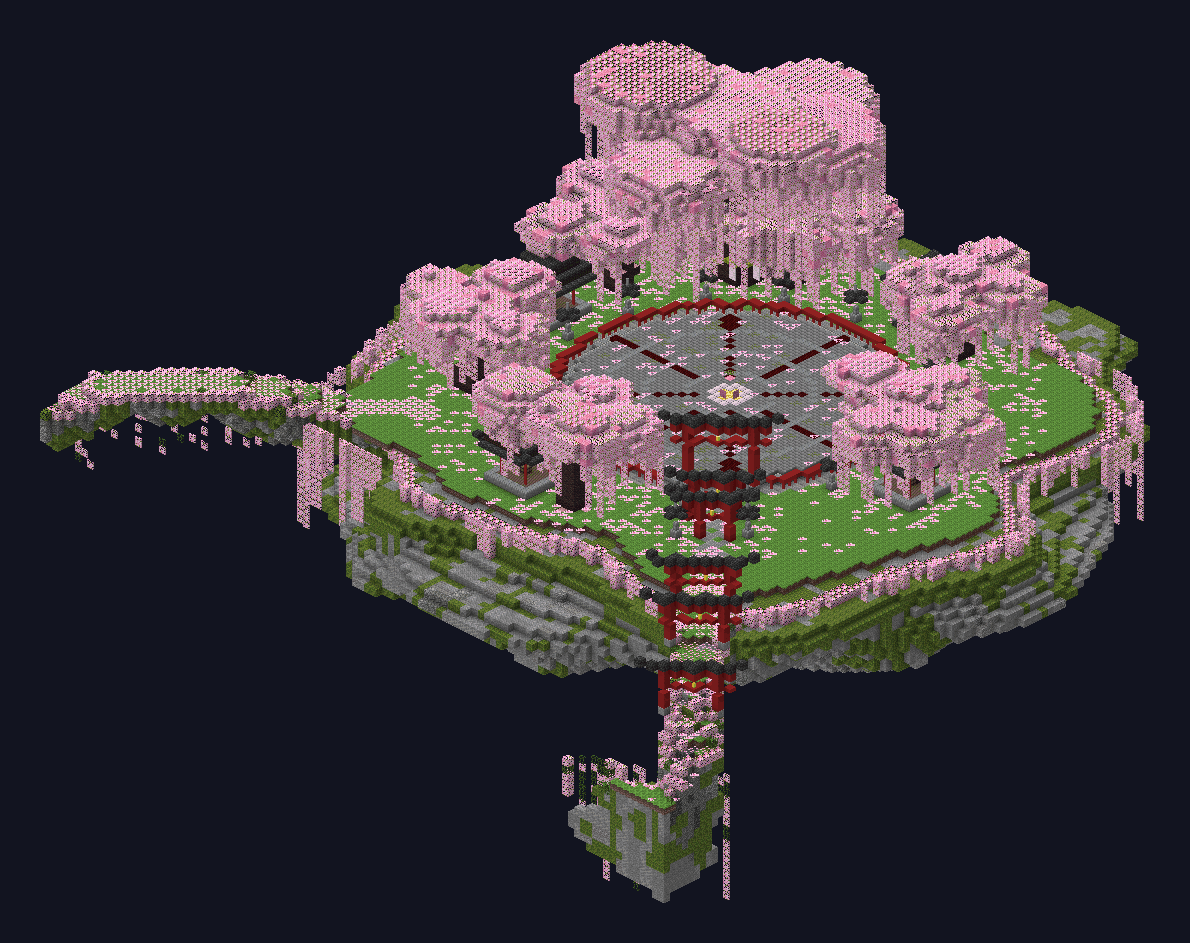
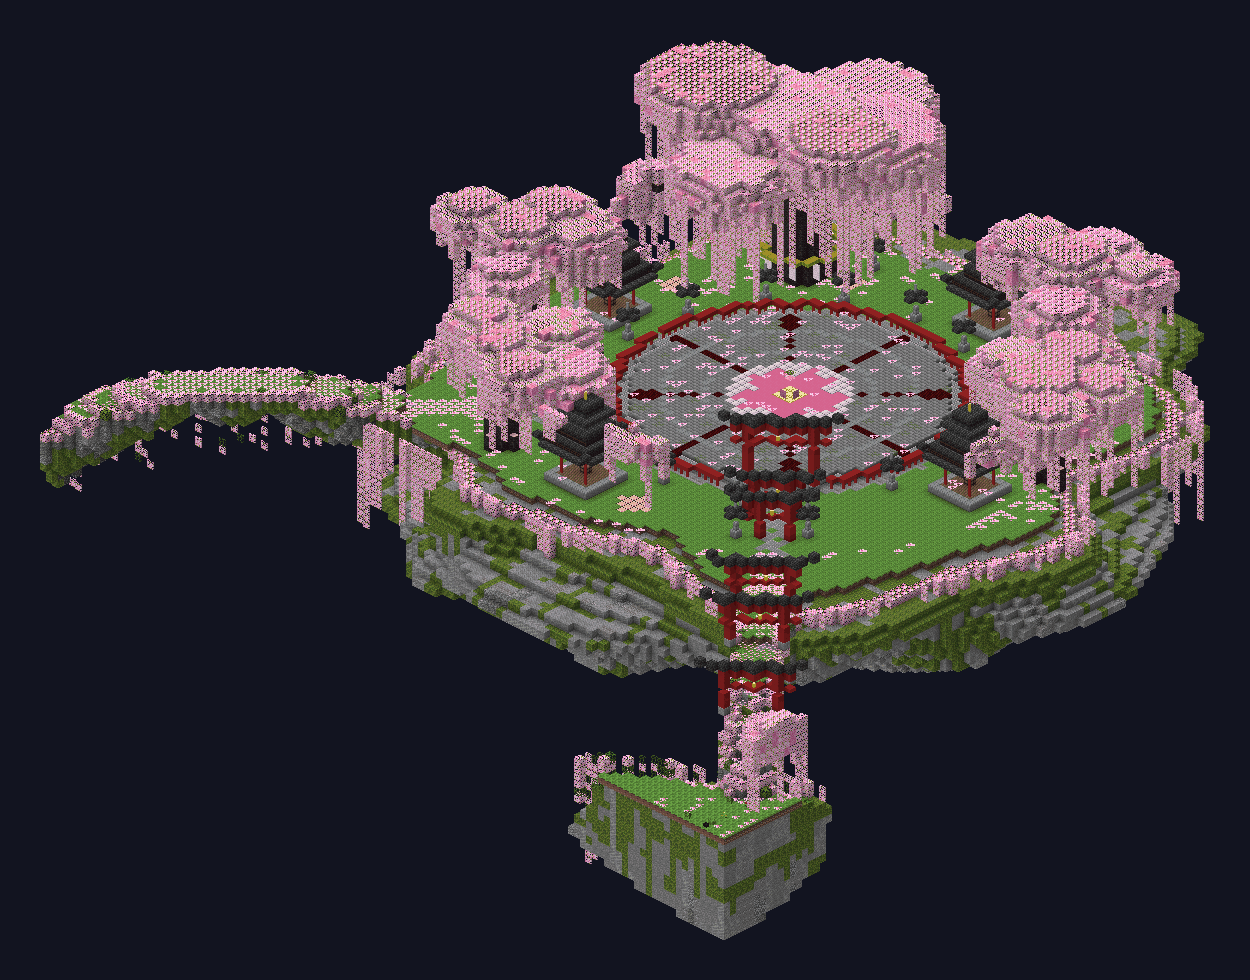
Proposals: field500 - arena precinct: cleared sightlines, sakura-mon floor crest, fence lanterns, two-tier pavilions, ponds, framing sakura

diff --git a/docs/proposals/world-prototype/field500/index.html b/docs/proposals/world-prototype/field500/index.html
@@ -90,7 +90,8 @@ small.cap { color: var(--muted); font-size: .8rem }
 </div>
 <script>
 const SHOTS = [
-  { id: "arena", tab: "ボス闘技場（入口側から）", img: "arena-nw.png", title: "桜のボス闘技場：参道から見たところ", text: "橋を渡ると、鳥居のトンネルと石灯籠の参道。大鳥居（明神鳥居：石の台、朱の柱、柱の外まで出た貫、額、反り上がった黒い笠木）をくぐると、一段高い円い石の床。床は5ブロックごとの同心円と8本の放射線、中央に金の印。まわりは朱の玉垣（低い柵）で、入口だけ開いている。闘技場の中には木も障害物も置かず、どこで戦っても見通せる。外側に砂利の帯と石灯籠16基、四方に瓦屋根の小さな社4棟。いちばん奥に注連縄を巻いたしだれ桜の御神木。", lv: "ボス" },
+  { id: "arena", tab: "ボス闘技場（入口側から）", img: "arena-nw.png", title: "桜のボス闘技場：参道から見たところ", text: "橋を渡ると、鳥居のトンネルと石灯籠の参道。大鳥居（明神鳥居：石の台、朱の柱、柱の外まで出た貫、額、反り上がった黒い笠木）をくぐると、一段高い円い石の床。床は5ブロックごとの同心円と8本の放射線、中央に金の印。まわりは朱の玉垣（低い柵）で、入口だけ開いている。闘技場の中には木も障害物も置かず、どこで戦っても見通せる。外側に砂利の帯と石灯籠16基、四方に瓦屋根の小さな社4棟。いちばん奥に注連縄を巻いたしだれ桜の御神木。今回：境内（闘技場から約35ブロック）の桜をいったん全部どけて、見通しを決めてから植え直した（入口と御神木の方向はあける）。床の中央に五弁の桜の紋（桜色と金）。玉垣の柱に灯り。社は二重屋根に。左右に睡蓮の浮く池（木の陰で絵では見えにくい）。", lv: "ボス" },
+  { id: "arenaprev", tab: "闘技場（前回）", img: "arena-nw-prev.png", title: "闘技場（前回）", text: "前回。柱にもともと生えていた桜が社や柵を隠していた。", lv: "前回" },
   { id: "arena2", tab: "ボス闘技場（反対側から）", img: "arena-se.png", title: "反対側から：御神木が手前", text: "いつもの角度だと御神木が手前に来て闘技場を隠すので、入口側からの絵も作った。", lv: "ボス" },
   { id: "scarp", tab: "崖（今回）", img: "f5-scarp.png", title: "崖：ギザギザの線、崩れた石、光る地衣類", text: "崖の線を細かくジグザグにし、まっすぐな段が7ブロック以上続かないようにした。段の高さも1〜3ブロックでばらばら。崖の足元には崩れ落ちた石（砂利・丸石・苔石の小岩）が溜まり、崖面には光る地衣類・垂れ根・つる。", lv: "今回" },
   { id: "scarp1", tab: "崖（前回）", img: "v2-scarp.png", title: "崖（前回）", text: "前回。縦のすじと明暗はあるが、崖の線がまっすぐで階段が規則的。", lv: "前回" },

diff --git a/scripts/world_prototype/field500.py b/scripts/world_prototype/field500.py
@@ -1035,6 +1035,12 @@ AR = int(SR_ * .45)
 ux2, uz2 = D2                                                       # the direction the visitor arrives from
 ent_a = math.atan2(-uz2, -ux2)
 FY = SY_ + 1                                                        # arena floor is one step up
+PREC = AR + 17
+for (x, y, z) in [p for p in w.b if abs(p[0] - SX_) <= PREC and abs(p[2] - SZ_) <= PREC and SY_ < p[1] < SY_ + 30]:
+    if math.hypot(x - SX_, z - SZ_) <= PREC and w.b[(x, y, z)][1] in ("cherry_log", "cherry_log_top", "cherry_leaves", "pink_wool", "oak_log", "oak_leaves", "oak_log_top"):
+        w.b.pop((x, y, z), None)
+for (x, y, z) in [p for p in w.b if abs(p[0] - SX_) <= PREC and abs(p[2] - SZ_) <= PREC and p[1] == SY_ + 1]:
+    if w.b[(x, y, z)][0] in ("carpet", "plant") and math.hypot(x - SX_, z - SZ_) <= PREC and UPPER[z, x] == SY_: w.b.pop((x, y, z), None)
 for dx in range(-AR - 4, AR + 5):
     for dz in range(-AR - 4, AR + 5):
         d = math.hypot(dx, dz)
@@ -1047,7 +1053,16 @@ for dx in range(-AR - 4, AR + 5):
             ring = abs(d - round(d / 5) * 5) < .5 and d > 2                  # concentric rings every 5
             ang = math.atan2(dz, dx)
             spoke = min(abs(((ang * 8 / math.tau) % 1) - .5), .5) > .44 and d > 4  # eight radial lines
-            if d < 2.6: mat = "gold_block" if d < 1.2 else "polished_diorite"   # the seal at the centre
+            petal = False                                                    # a five-petal sakura crest (sakura-mon) at the centre
+            for pk in range(5):
+                pa = ent_a + pk / 5 * math.tau
+                qx, qz = dx - math.cos(pa) * 4.2, dz - math.sin(pa) * 4.2
+                along = qx * math.cos(pa) + qz * math.sin(pa); across = -qx * math.sin(pa) + qz * math.cos(pa)
+                notch = along > 1.6 and abs(across) < .7
+                if (along / 3.0) ** 2 + (across / 2.3) ** 2 <= 1 and not notch: petal = True
+            if d < 1.6: mat = "gold_block"
+            elif petal: mat = "pink_concrete"
+            elif d < 7.6: mat = "polished_diorite"
             elif ring: mat = "polished_andesite"
             elif spoke: mat = "red_nether_bricks"
             else: mat = "stone_bricks" if _h(x, 0, z, 61) > .18 else ("mossy_stone_bricks" if _h(x, 1, z, 62) > .5 else "cracked_stone_bricks")
@@ -1062,16 +1077,46 @@ for k2 in range(int(math.tau * (AR + 2))):                          # tamagaki: 
     if abs(math.atan2(math.sin(a - ent_a), math.cos(a - ent_a))) < .32: continue
     x, z = int(round(SX_ + math.cos(a) * (AR + 2))), int(round(SZ_ + math.sin(a) * (AR + 2)))
     put(x, SY_ + 1, z, "red_concrete", shape="fence"); put(x, SY_ + 2, z, "red_concrete", shape="slab")
+    if k2 % 9 == 0: put(x, SY_ + 3, z, "lantern", shape="lantern")
 gx0, gz0 = SX_ + math.cos(ent_a) * (AR + 2), SZ_ + math.sin(ent_a) * (AR + 2)
 torii(gx0, gz0, SY_, -math.cos(ent_a), -math.sin(ent_a), half=4, h=9)   # the great torii at the entrance
 for k2 in range(16):                                                # lanterns on the gravel band
     a = ent_a + (k2 + .5) / 16 * math.tau
     if abs(math.atan2(math.sin(a - ent_a), math.cos(a - ent_a))) < .4: continue
     stone_lantern(int(round(SX_ + math.cos(a) * (AR + 5))), int(round(SZ_ + math.sin(a) * (AR + 5))), SY_)
-for off in (.85, -.85, 2.3, -2.3):                                   # four pavilions outside the fence
+for off in (.85, -.85, 2.3, -2.3):                                   # four pavilions outside the fence, two-tier roofs
     a = ent_a + off
     px2, pz2 = int(round(SX_ + math.cos(a) * (AR + 11))), int(round(SZ_ + math.sin(a) * (AR + 11)))
-    if UPPER[pz2, px2] == SY_: pavilion(px2, pz2, SY_)
+    if UPPER[pz2, px2] == SY_:
+        pavilion(px2, pz2, SY_, r=3)
+        for layer in range(2):                                           # a second, smaller roof floating above the first
+            rr = 2 - layer
+            for dx in range(-rr, rr + 1):
+                for dz in range(-rr, rr + 1):
+                    put(px2 + dx, SY_ + 10 + layer, pz2 + dz, "deepslate_tiles", shape="slab" if max(abs(dx), abs(dz)) == rr and layer == 0 else "full")
+        for yy in (SY_ + 9,): put(px2, yy, pz2, "red_concrete", shape="post")
+        put(px2, SY_ + 12, pz2, "gold_block", shape="post")
+for off in (1.55, -1.55):                                            # reflecting ponds between the pavilions
+    a = ent_a + off
+    qx0, qz0 = SX_ + math.cos(a) * (AR + 10), SZ_ + math.sin(a) * (AR + 10)
+    for dx in range(-7, 8):
+        for dz in range(-7, 8):
+            x, z = int(round(qx0)) + dx, int(round(qz0)) + dz
+            d = math.hypot(dx / 1.3, dz)
+            if UPPER[z, x] != SY_ or d > 5.2: continue
+            if d <= 4.2:
+                put(x, SY_ - 2, z, "gravel"); put(x, SY_ - 1, z, "water_still"); put(x, SY_, z, "water_still", shape="water")
+                UPPER[z, x] = -1
+                if _h(x, 0, z, 71) < .12: put(x, SY_ + 1, z, "lily_pad", shape="carpet")
+            else:
+                put(x, SY_, z, "polished_andesite" if _h(x, 1, z, 72) < .6 else "mossy_stone_bricks")
+    stone_lantern(int(round(qx0)) + 5, int(round(qz0)) - 3, SY_)
+for k2 in range(8):                                                  # framing sakura on the precinct edge, kept out of the sightlines
+    a = ent_a + .45 + k2 / 8 * math.tau
+    rel = abs(math.atan2(math.sin(a - ent_a), math.cos(a - ent_a)))
+    if rel < .6 or rel > math.pi - .55: continue
+    x, z = int(round(SX_ + math.cos(a) * (AR + 16))), int(round(SZ_ + math.sin(a) * (AR + 16)))
+    if UPPER[z, x] == SY_: sakura_tree(x, z, SY_, size=1.5)
 # the walk from the last bridge to the arena: a tunnel of torii lined with stone lanterns, a stone path
 startx, startz = BR2[-1][0], BR2[-1][1]
 for k2 in range(0, 40):

diff --git a/scripts/world_prototype/arena_render.py b/scripts/world_prototype/arena_render.py
@@ -1,0 +1,12 @@
+import pickle, iso, sys
+b, hi, L = pickle.load(open('field500.pkl','rb'))
+FLIP = {"stair_n": "stair_s", "stair_s": "stair_n", "stair_e": "stair_w", "stair_w": "stair_e",
+        "stair_n_t": "stair_s_t", "stair_s_t": "stair_n_t", "stair_e_t": "stair_w_t", "stair_w_t": "stair_e_t"}
+x0, z0, x1, z1 = 315, 340, 430, 460
+for flip, name in ((True, 'f5-arena-nw.png'), (False, 'f5-arena.png')):
+    sub = iso.World()
+    for (x, y, z), v in b.items():
+        if x0 <= x <= x1 and z0 <= z <= z1 and y >= 95:
+            sub.b[(1000 - x, y, 1000 - z) if flip else (x, y, z)] = (FLIP.get(v[0], v[0]) if flip else v[0], v[1], v[2])
+    iso.render(sub, W=12).save(name)
+    print(name)
